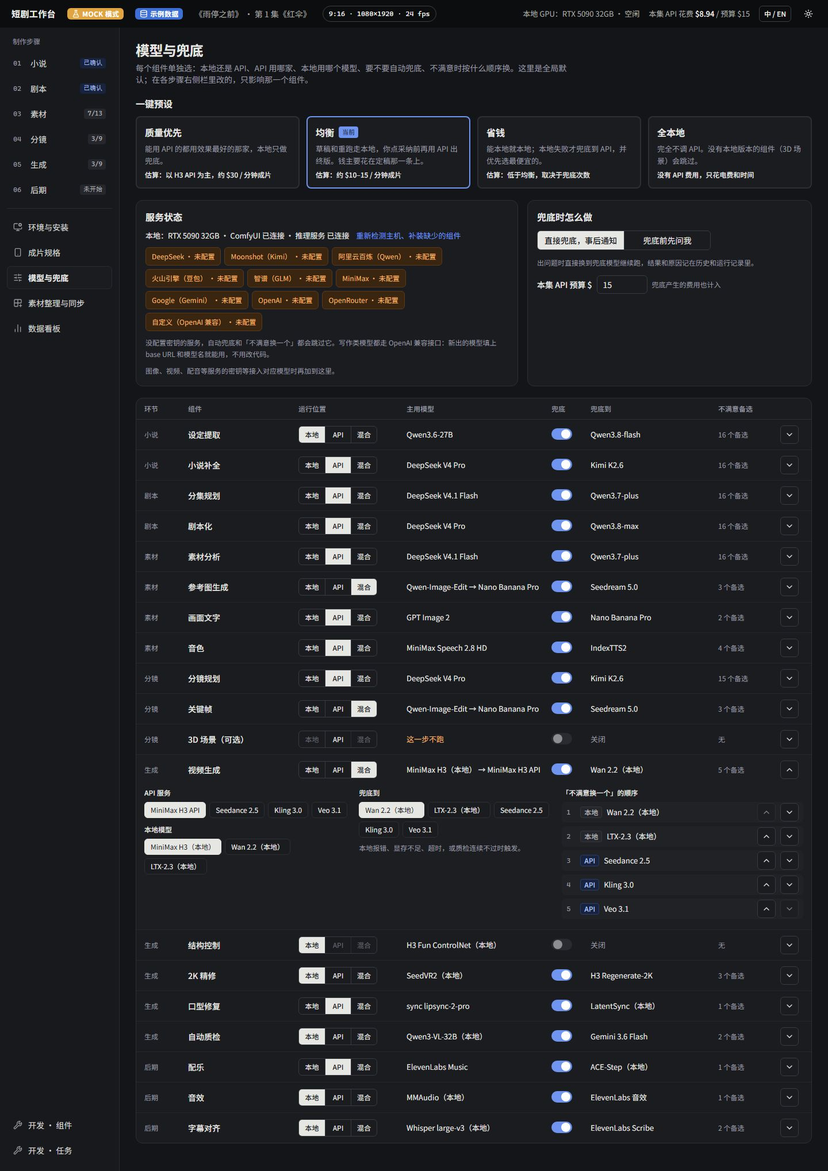
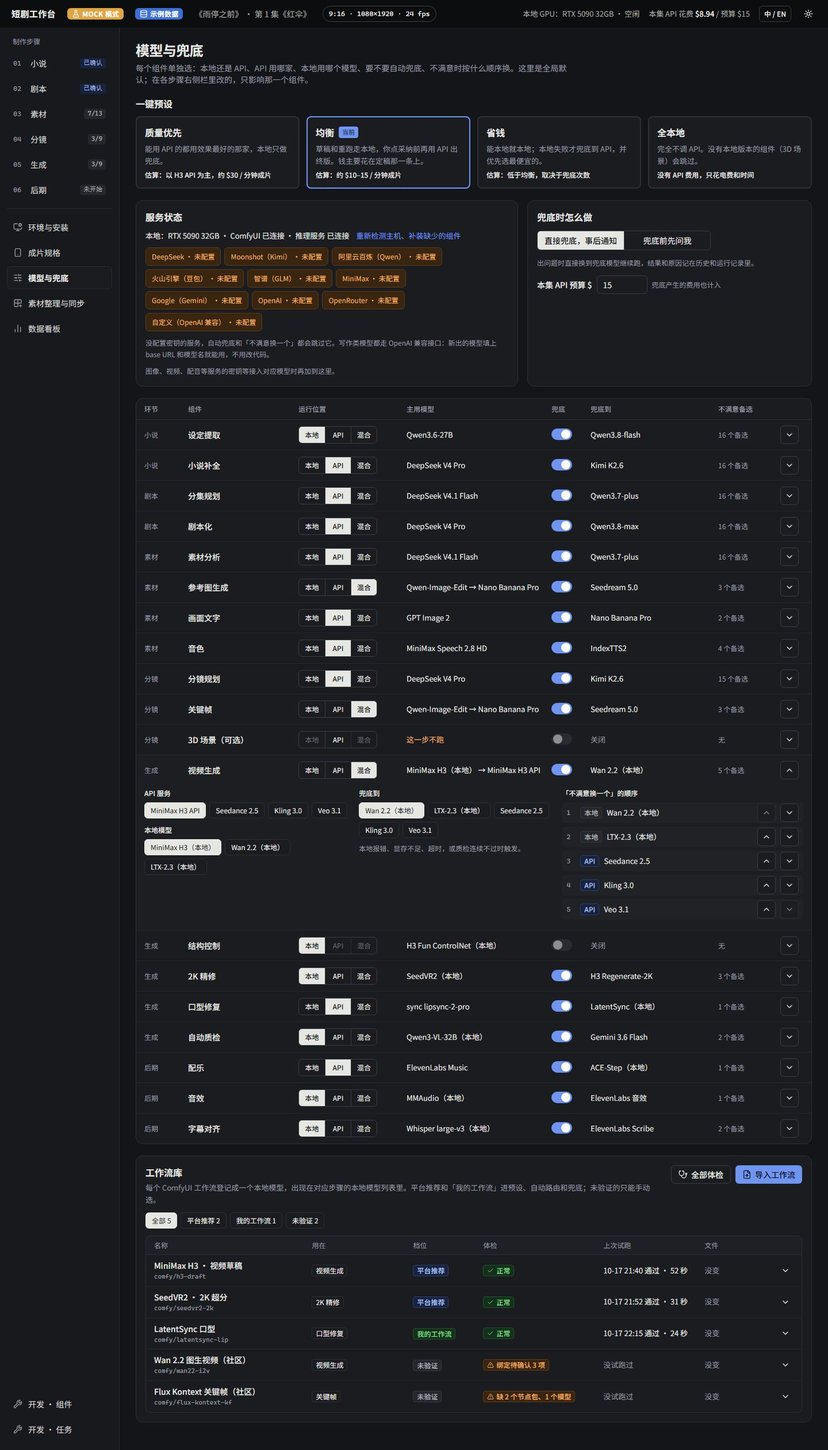
Workflow library: tests, smoke, screenshots (step 7b)
Kelvin approved the design. Page tests cover tiers and filters, the
read-only recommended workflows, confirming guessed bindings before a trial
and the tier change, installing missing node packs and models through the
ComfyUI change list, importing from ComfyUI's list or a dropped API-format
JSON, demoting, and English. Smoke adds confirm → trial → My workflow.
Models screenshots re-shot.

diff --git a/web/src/pages/models/WorkflowLibrary.test.tsx b/web/src/pages/models/WorkflowLibrary.test.tsx
@@ -1,0 +1,215 @@
+import { act, screen, waitFor, within } from "@testing-library/react";
+import userEvent from "@testing-library/user-event";
+
+import { Toaster } from "@/components/ui/sonner";
+import { getDb } from "@/mocks/db";
+import { demoTiming } from "@/mocks/events";
+import { WorkflowLibrary } from "@/pages/models/WorkflowLibrary";
+import { useUiStore } from "@/stores/ui";
+import { backend } from "@/test/backend";
+import { renderAt } from "@/test/render";
+
+type User = ReturnType<typeof userEvent.setup>;
+
+const renderLibrary = () =>
+  renderAt(
+    <>
+      <WorkflowLibrary />
+      <Toaster />
+    </>,
+    "/models",
+  );
+
+const library = () => screen.getByRole("region", { name: "工作流库" });
+const row = (name: string) => within(library()).getByRole("rowgroup", { name });
+const header = (name: string) => within(row(name)).getAllByRole("row")[0] as HTMLElement;
+
+async function open(user: User, name: string) {
+  await screen.findByRole("rowgroup", { name });
+  await user.click(screen.getByRole("button", { name: `展开 ${name}` }));
+  return row(name);
+}
+
+const WAN = "Wan 2.2 图生视频（社区）";
+const KONTEXT = "Flux Kontext 关键帧（社区）";
+const timing = { ...demoTiming };
+
+beforeEach(() => {
+  backend();
+  demoTiming.workflowTrialMs = 20;
+});
+afterEach(() => Object.assign(demoTiming, timing));
+
+describe("WorkflowLibrary", () => {
+  it("lists workflows by tier with their health check, last trial and file state", async () => {
+    const user = userEvent.setup();
+    renderLibrary();
+    await screen.findByRole("rowgroup", { name: WAN });
+    expect(within(library()).getAllByRole("rowgroup")).toHaveLength(5);
+    expect(header("MiniMax H3 · 视频草稿")).toHaveTextContent(
+      "comfy/h3-draft视频生成平台推荐正常10-17 21:40 通过 · 52 秒没变",
+    );
+    expect(header("LatentSync 口型")).toHaveTextContent("口型修复我的工作流正常");
+    expect(header(WAN)).toHaveTextContent("未验证绑定待确认 3 项没试跑过");
+    expect(header(KONTEXT)).toHaveTextContent("缺 2 个节点包、1 个模型");
+
+    const tiers = within(library()).getByRole("radiogroup", { name: "按档位筛选" });
+    await user.click(within(tiers).getByRole("radio", { name: "未验证 2" }));
+    expect(
+      within(library())
+        .getAllByRole("rowgroup")
+        .map((r) => r.getAttribute("aria-label")),
+    ).toEqual([WAN, KONTEXT]);
+    await user.click(within(tiers).getByRole("radio", { name: "平台推荐 2" }));
+    expect(within(library()).getAllByRole("rowgroup")).toHaveLength(2);
+  });
+
+  it("recommended workflows use DramaStudio nodes: nothing to bind, no tier to change", async () => {
+    const user = userEvent.setup();
+    renderLibrary();
+    const h3 = await open(user, "MiniMax H3 · 视频草稿");
+    expect(h3).toHaveTextContent("随平台提供 · workflows/h3-draft/");
+    expect(h3).toHaveTextContent("能力：画幅 9:16 16:9 3:4 1:1 21:9 · 最长 10 秒 · 参考图 1 张");
+    expect(within(h3).getByRole("tab", { name: "试跑", selected: true })).toBeInTheDocument();
+    expect(h3).toHaveTextContent("通过 · 2026-10-17 21:40 · 用时 52 秒 · 显存 22.4 GB");
+    expect(within(h3).queryByRole("button", { name: "升为我的工作流" })).toBeNull();
+    await user.click(within(h3).getByRole("tab", { name: "绑定" }));
+    expect(h3).toHaveTextContent("用的是 DramaStudio 输入 / 输出节点");
+    expect(within(h3).queryByRole("combobox")).toBeNull();
+    expect(within(h3).getAllByText("DramaStudio 节点")).toHaveLength(10);
+  });
+
+  it("guessed bindings block the trial and the tier until confirmed", async () => {
+    const user = userEvent.setup();
+    renderLibrary();
+    const wan = await open(user, WAN);
+    expect(within(wan).getByRole("tab", { name: "绑定", selected: true })).toBeInTheDocument();
+    expect(wan).toHaveTextContent("还有 3 项是导入时自动猜的，确认后才能试跑和登记。");
+    expect(within(wan).getByRole("button", { name: "升为我的工作流" })).toBeDisabled();
+    expect(wan).toHaveTextContent("先确认绑定");
+
+    // Point the seed at the other sampler, then confirm everything.
+    const seedNode = within(wan).getByRole("combobox", { name: "种子 的节点" });
+    await user.selectOptions(seedNode, "KSampler (low noise)");
+    expect(within(wan).getByRole("combobox", { name: "种子 的字段" })).toHaveValue("noise_seed");
+    await user.click(within(wan).getByRole("button", { name: "确认全部绑定" }));
+    expect(await screen.findByText("绑定已确认")).toBeInTheDocument();
+    await waitFor(() => expect(header(WAN)).toHaveTextContent("正常"));
+    const saved = getDb().workflows.find((w) => w.id === "wf_wan");
+    expect(saved?.bindings.every((b) => b.state === "confirmed")).toBe(true);
+    expect(saved?.bindings.find((b) => b.slot === "seed")?.node_title).toBe("KSampler (low noise)");
+
+    // Now the trial can run; once it passes, the workflow can become 我的工作流.
+    expect(row(WAN)).toHaveTextContent("先试跑通过");
+    await user.click(within(row(WAN)).getByRole("tab", { name: "试跑" }));
+    await user.click(within(row(WAN)).getByRole("button", { name: "试跑" }));
+    expect(await screen.findByText("已开始试跑：Wan 2.2 图生视频（社区）")).toBeInTheDocument();
+    expect(await within(row(WAN)).findByText("试跑中…（本地 GPU 队列）")).toBeInTheDocument();
+    const promote = await within(row(WAN)).findByRole(
+      "button",
+      { name: "通过了，升为我的工作流" },
+      { timeout: 3000 },
+    );
+    await user.click(promote);
+    expect(await screen.findByText("已升为「我的工作流」：Wan 2.2 图生视频（社区）")).toBeVisible();
+    await waitFor(() => expect(header(WAN)).toHaveTextContent("我的工作流"));
+  });
+
+  it("missing node packs and models install after the ComfyUI change list", async () => {
+    const user = userEvent.setup();
+    renderLibrary();
+    const kontext = await open(user, KONTEXT);
+    expect(within(kontext).getByRole("tab", { name: "体检", selected: true })).toBeVisible();
+    expect(kontext).toHaveTextContent("上次体检 2026-10-18 09:25 · 节点类 17/19 在");
+    const packs = within(kontext).getByRole("table", { name: "缺的节点包" });
+    expect(within(packs).getByRole("row", { name: /ComfyUI-GGUF/ })).toHaveTextContent(
+      "UnetLoaderGGUFregistry1.1.4",
+    );
+    const models = within(kontext).getByRole("table", { name: "缺的模型" });
+    expect(within(models).getByRole("row", { name: /flux1-kontext/ })).toHaveTextContent("11.8 GB");
+    await user.click(within(row(KONTEXT)).getByRole("tab", { name: "试跑" }));
+    expect(within(row(KONTEXT)).getByRole("button", { name: "试跑" })).toBeDisabled();
+    expect(row(KONTEXT)).toHaveTextContent("先装好缺的节点包和模型");
+    await user.click(within(row(KONTEXT)).getByRole("tab", { name: "体检" }));
+
+    await user.click(
+      within(row(KONTEXT)).getByRole("button", { name: "安装缺的 2 个节点包和 1 个模型" }),
+    );
+    const dialog = await screen.findByRole("alertdialog", { name: "开始安装前请确认" });
+    expect(within(dialog).getByText("会改动你的 ComfyUI（3 项）")).toBeInTheDocument();
+    expect(within(dialog).getByRole("row", { name: /^ComfyUI-GGUF/ })).toHaveTextContent(
+      "安装1.1.4https://github.com/city96/ComfyUI-GGUF",
+    );
+    expect(within(dialog).getByRole("row", { name: /flux1-kontext/ })).toHaveTextContent(
+      "约 11.8 GB",
+    );
+    expect(dialog).toHaveTextContent("装坏了可以在「环境与安装」里一键回滚");
+    await user.click(within(dialog).getByRole("button", { name: "确认，开始安装" }));
+    expect(
+      await screen.findByText(/^已存快照 .*，装好了 2 个节点包、1 个模型$/),
+    ).toBeInTheDocument();
+    await waitFor(() => expect(header(KONTEXT)).toHaveTextContent("正常"));
+    expect(row(KONTEXT)).toHaveTextContent("都在：节点类、被绑定的节点标题和字段、模型文件。");
+  });
+
+  it("imports from ComfyUI's list; the asset board and imported ones cannot be picked", async () => {
+    const user = userEvent.setup();
+    renderLibrary();
+    await screen.findByRole("rowgroup", { name: WAN });
+    await user.click(screen.getByRole("button", { name: "导入工作流" }));
+    const dialog = await screen.findByRole("dialog", { name: "导入工作流" });
+    const file = (path: string) => within(dialog).getByRole("listitem", { name: path });
+    expect(
+      await within(dialog).findByRole("listitem", { name: "短剧/雨停之前/第1集-素材板.json" }),
+    ).toHaveTextContent("素材板，不能登记");
+    expect(file("video_wan2_2_14B_i2v.json")).toHaveTextContent("已导入");
+    expect(within(file("video_wan2_2_14B_i2v.json")).queryByRole("button")).toBeNull();
+    await user.click(within(file("我的/雨夜氛围-ltx2.json")).getByRole("button", { name: "导入" }));
+    expect(await screen.findByText("已导入「雨夜氛围-ltx2」：先确认绑定，再试跑")).toBeVisible();
+    await waitFor(() => expect(screen.queryByRole("dialog")).toBeNull());
+    const added = await screen.findByRole("rowgroup", { name: "雨夜氛围-ltx2" });
+    expect(added).toHaveTextContent("导入自 我的/雨夜氛围-ltx2.json");
+    expect(added).toHaveTextContent("还有 8 项是导入时自动猜的");
+    expect(within(added).getByRole("button", { name: "展开 雨夜氛围-ltx2" })).toHaveAttribute(
+      "aria-expanded",
+      "true",
+    );
+  });
+
+  it("imports a dropped API-format JSON and refuses other files", async () => {
+    const user = userEvent.setup();
+    renderLibrary();
+    await screen.findByRole("rowgroup", { name: WAN });
+    await user.click(screen.getByRole("button", { name: "导入工作流" }));
+    const input = await screen.findByTestId("workflow-file");
+    await user.upload(input, new File(['{"nodes": []}'], "ui-format.json"));
+    expect(await screen.findByText("这个文件不是 ComfyUI 的 API 格式工作流")).toBeVisible();
+    const api = { "3": { class_type: "KSampler", inputs: { seed: 1 } } };
+    await user.upload(input, new File([JSON.stringify(api)], "my_flow.json"));
+    expect(await screen.findByRole("rowgroup", { name: "my_flow" })).toHaveTextContent(
+      "导入自 my_flow.json",
+    );
+  });
+
+  it("my workflows can go back to unverified", async () => {
+    const user = userEvent.setup();
+    renderLibrary();
+    const lip = await open(user, "LatentSync 口型");
+    await user.click(within(lip).getByRole("button", { name: "降为未验证" }));
+    expect(await screen.findByText("已降为未验证：LatentSync 口型")).toBeVisible();
+    await waitFor(() => expect(header("LatentSync 口型")).toHaveTextContent("未验证"));
+  });
+
+  it("switches to English", async () => {
+    act(() => useUiStore.getState().toggleLang());
+    try {
+      renderLibrary();
+      expect(await screen.findByRole("region", { name: "Workflow library" })).toBeInTheDocument();
+      const wan = await screen.findByRole("rowgroup", { name: WAN });
+      expect(screen.getByRole("radio", { name: "Unverified 2" })).toBeInTheDocument();
+      expect(wan).toHaveTextContent("Unverified3 bindings to confirmNever run");
+    } finally {
+      act(() => useUiStore.getState().toggleLang());
+    }
+  });
+});

diff --git a/web/e2e/smoke.spec.ts b/web/e2e/smoke.spec.ts
@@ -111,3 +111,22 @@ test("环境与安装 is in the left nav on every page", async ({ page }) => {
     .click();
   await expect(page.getByRole("heading", { level: 1 })).toHaveText("先看看这台电脑能跑什么");
 });
+
+test("workflow library: confirm guessed bindings, pass a trial, make it my workflow", async ({
+  page,
+}) => {
+  const errors = trackConsoleErrors(page);
+  await setUi(page, {});
+  await openPage(page, "/models");
+  const lib = page.getByRole("region", { name: "工作流库" });
+  const wan = lib.getByRole("rowgroup", { name: "Wan 2.2 图生视频（社区）" });
+  await lib.getByRole("button", { name: "展开 Wan 2.2 图生视频（社区）" }).click();
+  await expect(wan.getByText("还有 3 项是导入时自动猜的，确认后才能试跑和登记。")).toBeVisible();
+  await wan.getByRole("button", { name: "确认全部绑定" }).click();
+  await expect(wan.getByText(/还有 \d+ 项是导入时自动猜的/)).toHaveCount(0);
+  await wan.getByRole("tab", { name: "试跑" }).click();
+  await wan.getByRole("button", { name: "试跑", exact: true }).click();
+  await wan.getByRole("button", { name: "通过了，升为我的工作流" }).click({ timeout: 15_000 });
+  await expect(wan.getByRole("row").first()).toContainText("我的工作流");
+  expect(errors).toEqual([]);
+});

diff --git a/docs/studio/PROGRESS.md b/docs/studio/PROGRESS.md
@@ -26,11 +26,12 @@
 | 7（1/3） | 后端：没找到 ComfyUI 时 Manager 排在要装的 ComfyUI 后面（修 5c）；`tests/api/test_web_fixtures.py` 导出 Mock 后端回答到 `web/src/test/data/setup.json`（`DRAMA_UPDATE_FIXTURES=1` 重新生成） | a5a5ea6 | pytest 295 |
 | 7（2/3） | zod 补字段、`schemas/comfy.ts`、hooks；`test/setupBackend.ts`（假后端，读上面的 JSON）；Setup 页：确认弹窗 `setup/ConfirmInstall.tsx`、「你的 ComfyUI」`setup/ComfyPanel.tsx`（识别结果、快照、回滚）、改 ComfyUI 的项默认不勾；删 MSW setup handler；DECISIONS 记第 7 步 | cdce398 | web test 178 |
 | 7（3/3） | 导航「环境与安装」+「缺 N 项」；`/` 没扫描过跳 `/setup`；弹窗 / 导航不换行；切示例机器清快照（后端）；Playwright 后端改 `python -m`；e2e 加完整流程和导航；全部页面重截（侧栏变了）+ `setup-confirm`、`setup-done` 两张；勾计划第 7 步、ROADMAP 4 项；之后 `start.ps1` 也改 `python -m`（5a86c26） | 5c6e0b9 | pytest 295；web test 183、lint、typecheck、format；e2e 16；ruff、mypy（含 linux） |
-| 7b（设计稿） | 工作流库先做出来给 Kelvin 审：`schemas/workflows.ts`、`hooks/workflows.ts`、MSW `handlers/workflows.ts` + 示例 5 个（H3、SeedVR2 推荐；LatentSync 我的；Wan 绑定待确认；Flux Kontext 缺 2 节点包 1 模型）；`pages/models/{WorkflowLibrary,WorkflowDetail,ImportWorkflowDialog}.tsx`、`workflowStatus.ts`；`ConfirmInstall` 加 `snapshotNote`；词表 `workflows.json`、错误码 9 个；审阅图 `reports/ui/workflows/` | 本提交 | web test 183、lint、typecheck、format |
+| 7b（设计稿） | 工作流库先做出来给 Kelvin 审：`schemas/workflows.ts`、`hooks/workflows.ts`、MSW `handlers/workflows.ts` + 示例 5 个（H3、SeedVR2 推荐；LatentSync 我的；Wan 绑定待确认；Flux Kontext 缺 2 节点包 1 模型）；`pages/models/{WorkflowLibrary,WorkflowDetail,ImportWorkflowDialog}.tsx`、`workflowStatus.ts`；`ConfirmInstall` 加 `snapshotNote`；词表 `workflows.json`、错误码 9 个；审阅图 `reports/ui/workflows/` | d7a45b0 | web test 183、lint、typecheck、format |
+| 7b | Kelvin 审过设计稿；Vitest `pages/models/WorkflowLibrary.test.tsx`（8 条：列表和筛选、推荐档只读、猜的绑定 → 确认 → 试跑 → 升档、装依赖走确认弹窗、从 ComfyUI 列表导入、拖入 JSON、降档、英文）；Models 测试只数组件表的行；冒烟加工作流库一条；重截 models 两张；DECISIONS 记 7b；勾计划 7b、ROADMAP 一项 | 本提交 | web test 191、lint、typecheck、format；e2e 17 |
 
 ## 下一步
 
-- **第 7b 步（等 Kelvin 审设计稿）**：界面已按 M0.5 风格做完（中英文），审阅图在 `docs/studio/reports/ui/workflows/`。Kelvin 同意后：Vitest（列表筛选、展开、确认绑定、装缺的依赖走确认弹窗、试跑后升档、导入）、Playwright 冒烟加一条、重截 models 两张、DECISIONS 记 SPEC 9.1 里没有的接口（`GET /comfy/workflows`、`POST /workflows/{id}/deps`、`/deps/install`）和试跑轮询（M5 换成任务事件）、勾计划 7b 和 ROADMAP。Kelvin 要改就先改界面再补测试。
+- **第 8 步 清单补齐（运行环境和节点）**：按计划第 8 步做。`config/setup-manifest.yaml` 里 Python、uv、PyTorch（CUDA 13.0 源）、FFmpeg、Git、ComfyUI、VHS、SeedVR2、FlashVSR、Fun ControlNet、H3 节点、ComfyUI-Manager 补真实地址、锁定 commit（以官方仓库 / 文档为准，`verify: true` 的逐条核对，记 DECISIONS）；权重项 `installable: false` + 原因 `weights_pending_p0`（中英文案）；改 ComfyUI 的项按 5c 规则走；写只读冒烟脚本 `scripts/setup_scan_real.py`（真实扫描 + 4c 识别结果），给 Kelvin 在 5090 上跑。改了清单后 `DRAMA_UPDATE_FIXTURES=1` 重新导出前端测试数据。
   - 收尾（第 9 步）SPEC 要补：9.1 的 `POST /dev/setup/machine`、`/setup/install/confirm|cancel`、profile 的 `simulated`、`install.confirm|changes|snapshot|snapshot_error`、`GET /comfy/env`、`/comfy/snapshots*` 的返回结构；第 4 节 `comfy_env` 的 `comfyui_commit` 列；16.1 的 `/` 跳转规则和导航「环境与安装」。
 
 - **约定**：改已确认内容先 `useImpactPreview`、后 `useApplyImpact`；页面测试用 `test/backend.ts` 的 `backend()`（已含空的 `/jobs`、PC 示例机器扫描前；`resetFakeSetup("pc", { scanned: true })` 直接到扫描后），看 toast 就挂 `<Toaster />`；演示延迟放 `mocks/events.ts:demoTiming`，测试里改短；AppShell 测试标题要改成页面 h1；i18n key 不能含冒号。
@@ -68,6 +69,6 @@
 
 ## 等 Kelvin 的事
 
-- **审第 7b 步设计稿**：`docs/studio/reports/ui/workflows/` 下 10 张（列表、各种状态的展开、装依赖的确认弹窗、导入）。
-- （2026-10-18 已办：`start.ps1` 改 `python -m` 后本机能起；第 7 步的两张新界面截图 Kelvin 审核通过。）
+- **按镜头自动选工作流 / 搭节点**（Kelvin 2026-10-18 提问）：我的建议见对话（M5 做「按镜头特征选已登记的工作流 + 工作流里的可开关分支」，不做自动拼新图），等 Kelvin 定要不要写进 SPEC / ROADMAP。
+- （2026-10-18 已办：`start.ps1` 改 `python -m` 后本机能起；第 7 步的两张新界面截图、第 7b 步设计稿 Kelvin 审核通过。）
 - 按 `reports/M0.5.md`「怎么验证」在本机点一遍，切中英和亮暗；看 `reports/ui/README.md` 的「有意的差异」。

diff --git a/docs/studio/reports/ui/README.md b/docs/studio/reports/ui/README.md
@@ -24,7 +24,7 @@ pnpm -C web shots:prototype --runtime <path/to/dc-runtime.js> [--only Main,Spec]
 | 04 分镜 `/s/demo/e/1/storyboard` | [Storyboard](prototype/Storyboard.jpg) | [亮色](storyboard.light.jpg) | [暗色](storyboard.dark.jpg) | 站位图真的能拖（也能用方向键），位置存进镜头的 `blocking`；机位也是可拖的一项，不再按景别自动摆；参考素材的「未锁定」按素材页的实际锁定状态显示；「添加参考」从已锁定素材里选；确认镜头时顺带采纳当前关键帧；1-09 的尾帧接 1-08（原型如此，ROADMAP 里只举了 1-08 接 1-06） |
 | 05 生成 `/s/demo/e/1/generate` | [Generate](prototype/Generate.jpg) | [亮色](generate.light.jpg) | [暗色](generate.dark.jpg) | 本地队列卡的数字取真实 `/jobs`（示例里是「空闲」），下面一行「正在跑 1-05 T1」取示例产物；默认打开第一个「待挑选」的镜头（1-04）；候选卡多了键盘选中框和打分（← → / 1–5 / A / 空格，原型只写在说明里）；「取消采纳」走单独接口；排队中的镜头不能「再出一条」（原型里能点）；等尾帧的镜头点「再出一条」会提示先采纳上游镜头；1-06 空状态写「台词会先用锁定音色配好」（原型是「画外音」，按声音做法推出）；播放和局部修复只弹提示（示例里没有视频文件和蒙版工具），2K 精修调接口返回任务 |
 | 06 后期 `/s/demo/e/1/post` | [Post](prototype/Post.jpg) | [亮色](post.light.jpg) | [暗色](post.dark.jpg) | 音量按片段存（原型是整页一个值）；播放按真实时间走（原型是 2 倍速）；默认选中第一个没采纳的片段，播放头放在它中间（00:12，原型是 00:11）；「换一条候选」跳到生成页并打开那个镜头；雨声标「视频原生音频」（原型写「H3 原生音频」）；字幕改了会标「已改，和剧本不同」；导出按钮调接口后弹提示（示例里不真的导出）；导航「后期」按进度显示「未开始」（原型在本页写「进行中」）；配乐 RunBar 的预计花费是 Mock 的按次估价（原型写「订阅内」） |
-| 模型与兜底 `/models` | [Models](prototype/Models.jpg) | [亮色](models.light.jpg) | [暗色](models.dark.jpg) | 19 个组件（多了素材分析、音效，照 components.yaml 的顺序）；3D 场景在「均衡」下是「这一步不跑」（components.yaml `mode: off`，原型算成 API）；密钥 chips 来自真实 `/providers`，只有写作类服务，而且都显示「未配置」（原型列了 13 家、一半已配置）；点 chip 弹出密钥窗口（原型只有提示条）；兜底目标和备选顺序用各组件已有的示例配置（和 Inspector 一致），和原型的个别默认值不同；提示用 toast |
+| 模型与兜底 `/models` | [Models](prototype/Models.jpg) | [亮色](models.light.jpg) | [暗色](models.dark.jpg) | 19 个组件（多了素材分析、音效，照 components.yaml 的顺序）；3D 场景在「均衡」下是「这一步不跑」（components.yaml `mode: off`，原型算成 API）；密钥 chips 来自真实 `/providers`，只有写作类服务，而且都显示「未配置」（原型列了 13 家、一半已配置）；点 chip 弹出密钥窗口（原型只有提示条）；兜底目标和备选顺序用各组件已有的示例配置（和 Inspector 一致），和原型的个别默认值不同；提示用 toast；页面最下面多了「工作流库」（SPEC 6.4.6，原型里没有；Kelvin 2026-10-18 审过设计稿，审阅图在 [workflows/](workflows/)），M5 之前是示例数据 |
 | 素材整理与同步 `/s/demo/sync` | [Sync](prototype/Sync.jpg) | [亮色](sync.light.jpg) | [暗色](sync.dark.jpg) | 同步完成的提示只说文件数和新增数（原型列出新增的是哪几个）；「在 ComfyUI 里打开素材板」是真链接（原型只弹提示）；提示用 toast |
 | 数据看板 `/s/demo/dashboard` | [Dashboard](prototype/Dashboard.jpg) | [亮色](dashboard.light.jpg) | [暗色](dashboard.dark.jpg) | 全剧的预计和剩余写到分（$28.05、剩 $16.95，原型「约 $28.1」「剩 $16.9」），按集汇总里的预计也写到分（约 $7.10）；「花在哪」的环节名用组件名（「分集规划」「参考图生成」），各项之间统一用「 · 」；「现在 $8.94」放在点的右下方；失败标记用描边警示图标 + 文字；悬停用键盘聚焦也能触发；镜头明细的说法改成结构化的句子（质检问题用「人脸、手指」「颜色」「灯光」这些固定名称，原型是「伞的颜色偏橙」「灯没闪」）；组件时长里「设定提取、分集」拆成两行；质检原因五项分开（原型把颜色和灯光合成「与描述不符 2」）；本地模型的「用在」用组件名；导出 CSV 真的下载 calls.csv（原型只弹提示），列是时间、类别、镜头、模型、本地 / API、耗时、用量、花费、结果 |
 

diff --git a/docs/studio/DECISIONS.md b/docs/studio/DECISIONS.md
@@ -2,6 +2,14 @@
 
 新的决定加在最上面：日期、决定、原因、影响。
 
+## 2026-10-18 · M1 工作流库界面，示例数据（第 7b 步）
+
+- **设计稿 Kelvin 审过**（审阅图 `reports/ui/workflows/`）：放「模型与兜底」页最下面，和组件表一样点一行在下面展开；展开后三个标签「绑定 / 体检 / 试跑」，默认打开最该处理的那个（有猜的绑定 → 绑定；缺依赖 → 体检；否则试跑）。
+- **改档规则**（SPEC 6.4.4）：平台推荐的不能改档；升为「我的工作流」要绑定全部确认、试跑通过、文件没变过；「我的工作流」随时能降为未验证；改了绑定的「我的工作流」自动降为未验证（试跑结果不再算数）。
+- **SPEC 9.1 没写、这次补的接口**（M5 接后端时再定）：`GET /comfy/workflows`（读 ComfyUI 自己的工作流列表，供导入；工作台的素材板列出但不能登记）、`POST /workflows/{id}/deps`（缺的节点包和模型的改动清单，`comfy_change` 同第 7 步）、`POST /workflows/{id}/deps/install`（确认后：先存快照再装）。装依赖复用第 7 步的确认弹窗，回滚提示指向「环境与安装」（`ConfirmInstall` 加 `snapshotNote`）。
+- **试跑进度先轮询**：列表里有试跑中的工作流时每秒刷新一次；M5 有真任务后改成 `job.updated` 事件。
+- **绑定的槽位**：照 SPEC 6.4.3 的输入输出，另加 `video_in`（超分、口型这类以视频为输入的工作流要用）。SPEC 收尾时补上。
+
 ## 2026-10-18 · M1 首次启动页接真实接口（第 7 步）
 
 - **前端测试的假后端用真实后端导出的数据**：`tests/api/test_web_fixtures.py` 在 Mock 下扫描 PC / Mac 示例，把 profile（扫描前、扫描后）、全选安装时的顺序和 `install.confirm`、`/comfy/env` 写进 `web/src/test/data/setup.json`；`web/src/test/setupBackend.ts` 读它，按真实后端的节奏（202 后在下一个任务里推 `setup.progress` / `setup.log`，经测试的 `FakeEventSource` 走 SSE 那条路）模拟扫描、确认、快照、安装、重试、跳过、回滚。后端回答一变，这个 pytest 就失败，`DRAMA_UPDATE_FIXTURES=1` 重新生成。原因：MSW 示例和后端的数字已经分叉（MSW 25 项，后端 30 项），手抄一份迟早再分叉。文件由脚本生成，prettier 忽略它。

diff --git a/docs/studio/ROADMAP.md b/docs/studio/ROADMAP.md
@@ -66,7 +66,7 @@ M0–M4 不依赖这些结论，可以同时进行；M5 开始前要有结论。
 - [x] 左侧导航常驻「环境与安装」入口（Kelvin 2026-10-15 要求）：随时重新检测、补装，徽标显示缺几项
 - [x] 识别已装的 ComfyUI（只读）：路径、端口、版本、节点包（git commit 或 Registry 版本）、模型文件（Kelvin 2026-10-18 要求，SPEC 6.4.1）
 - [x] 改已装的 ComfyUI 前列改动清单确认；动手前用 ComfyUI-Manager 存快照，可一键回滚（SPEC 6.4.1）
-- [ ] 「模型与兜底」页的「工作流库」区域：导入、绑定、体检、试跑、分档，先用示例数据（SPEC 6.4.6；M5 接后端）
+- [x] 「模型与兜底」页的「工作流库」区域：导入、绑定、体检、试跑、分档，先用示例数据（SPEC 6.4.6；M5 接后端）
 
 **验收**
 - [ ] 在 Kelvin 的 Windows + RTX 5090 上真实扫描，结果和实际一致
